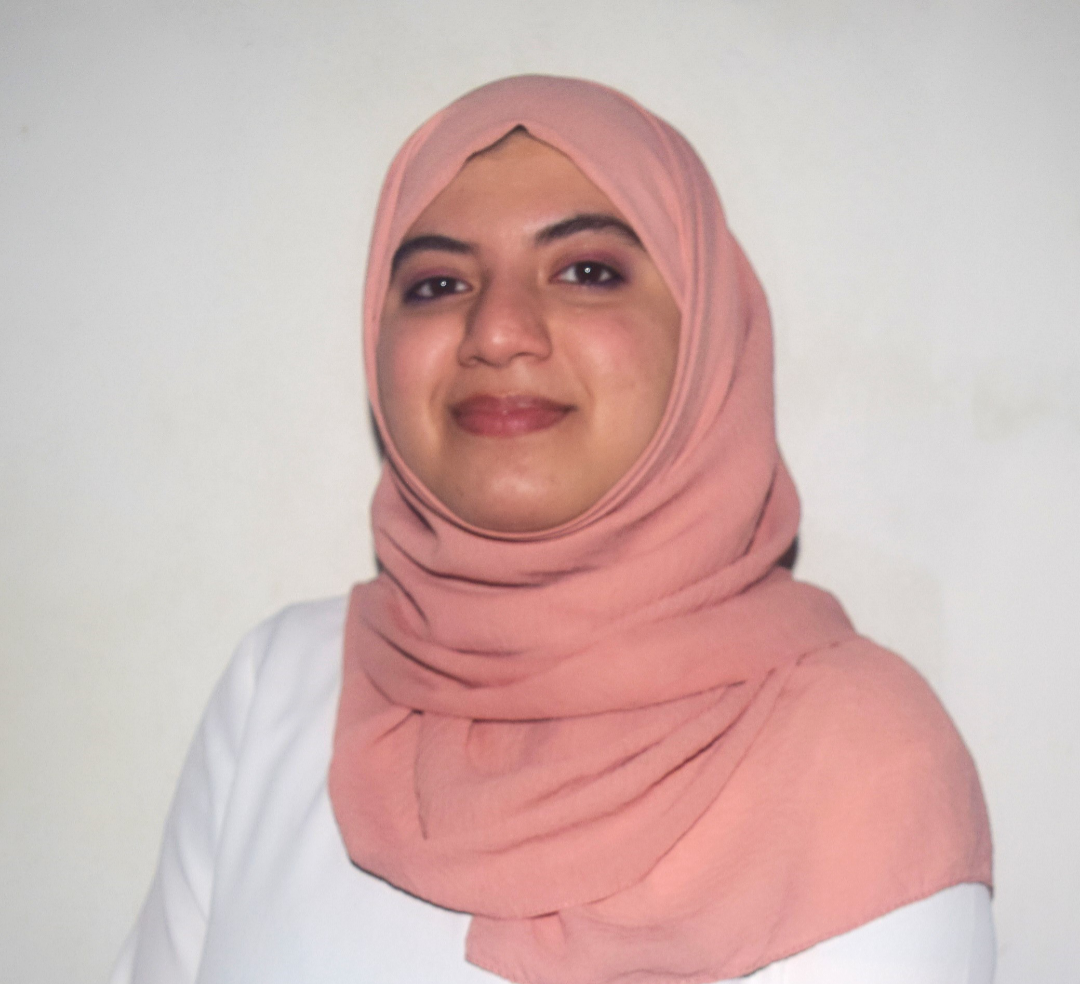
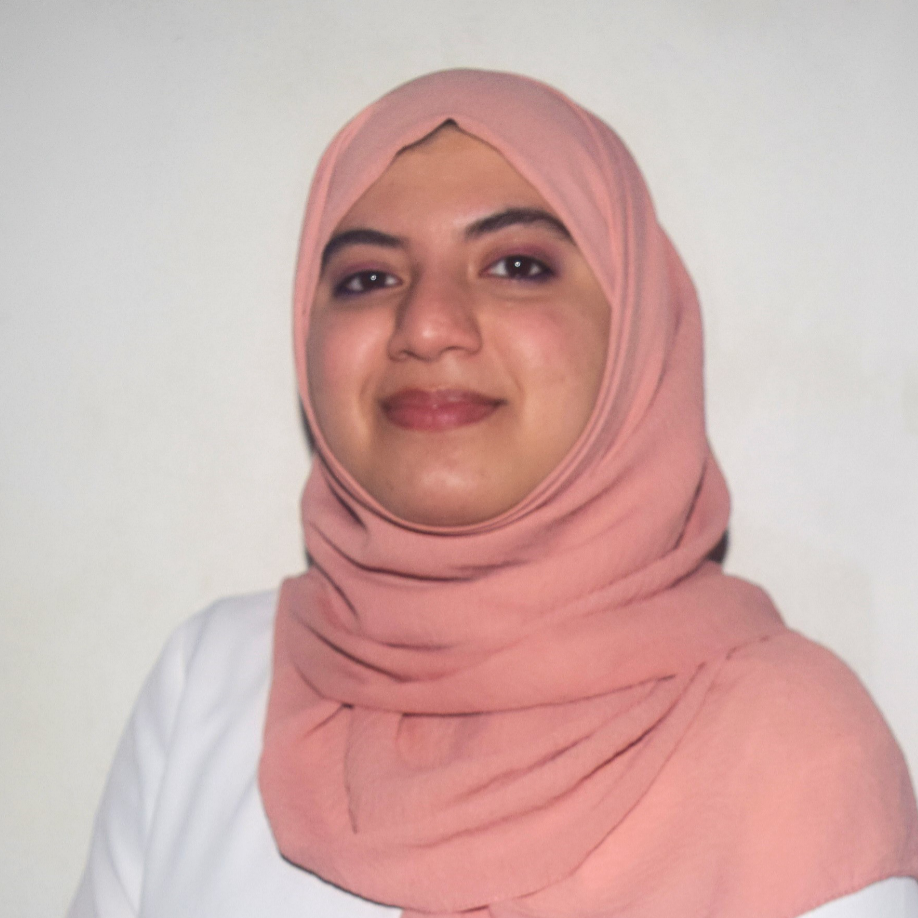
Added myself + minor changes

diff --git a/_team_member/james.md b/_team_member/james.md
@@ -1,0 +1,12 @@
+---
+layout: teammember
+team-member-name: James Clark Ross
+team-member-photo: /assets/img/team/james.jpeg
+job-role: Senior Clinical Scientist
+---
+
+### Bio
+[James](www.jamesclarkross.co.uk) joined the CSC team as a Senior Clinical Scientist in February 2026, arriving with over ten years of NHS experience at five different trusts. He graduated from the [NHS Scientist Training Programme](/stp.html) in 2016, after being recruited onto the scheme in 2013 and specialising in Medical Physics (Imaging with Ionising Radiation). Not only does he bring a wealth of clinical knowledge to the table, he is an experienced clinical researcher and has a PhD in philosophy.
+
+### CSC Team Role
+James's main roles include website management, staff training, AI ethics, and research.
